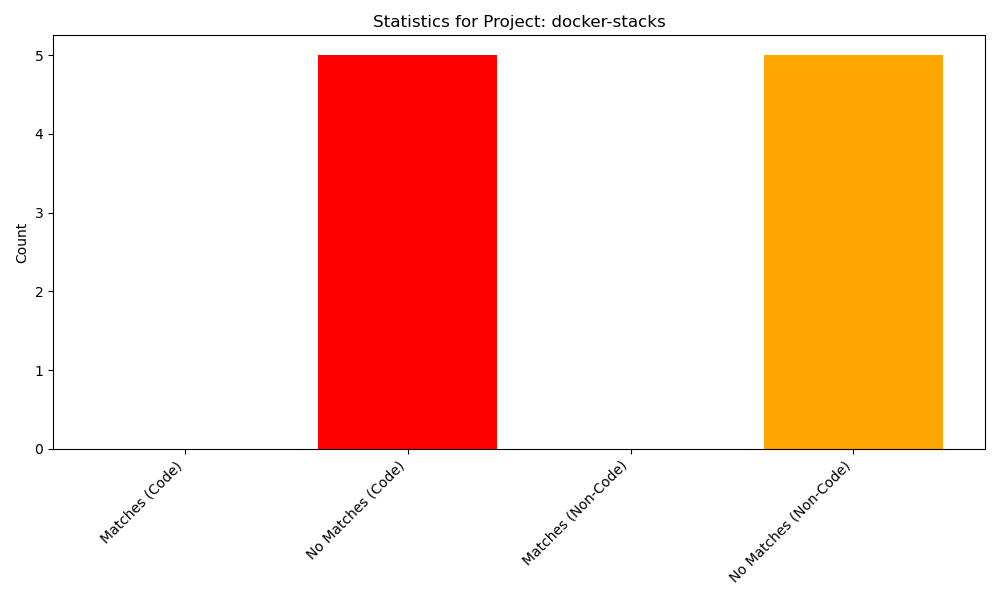
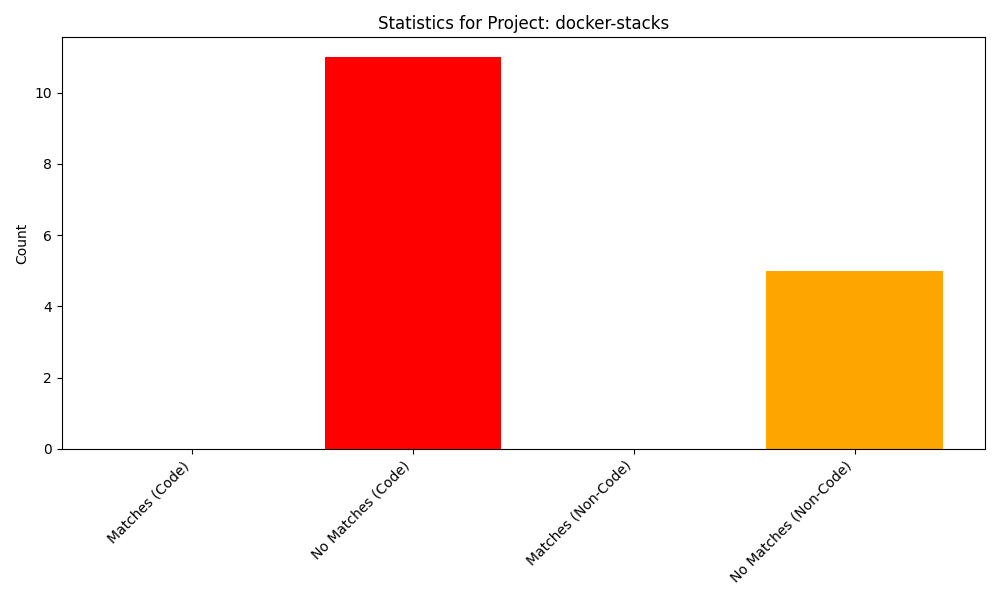
lab3 working

diff --git a/Lab3/cs202_miner/matching_diff_analysis.py b/Lab3/cs202_miner/matching_diff_analysis.py
@@ -6,7 +6,7 @@ import sys
 project_name = sys.argv[1]
 
 # Define the file path dynamically
-file_path = f'C:/Users/bhanu/OneDrive/Desktop/courses/STT_Lab/Lab3/cs202_miner/results/{project_name}/diff_analysis.csv'
+file_path = f'./results/{project_name}/diff_analysis.csv'
 
 # Check if the file exists before proceeding
 if os.path.exists(file_path):
@@ -14,7 +14,7 @@ if os.path.exists(file_path):
     df['Matches'] = df.apply(lambda row: 'Yes' if row['diff_myers'] == row['diff_hist'] else 'No', axis=1)
 
     # Save the modified dataframe to a new CSV file
-    output_path = f'C:/Users/bhanu/OneDrive/Desktop/courses/STT_Lab/Lab3/cs202_miner/results/{project_name}/matching_diff_analysis.csv'
+    output_path = f'./results/{project_name}/matching_diff_analysis.csv'
     df.to_csv(output_path, index=False)
     
     print("File processed successfully.")

diff --git a/Lab3/cs202_miner/plots.py b/Lab3/cs202_miner/plots.py
@@ -5,7 +5,7 @@ import matplotlib.pyplot as plt
 
 # Define the project name and path to the CSV file
 project_name = sys.argv[1]  # Change this as needed
-csv_path = f'C:/Users/bhanu/OneDrive/Desktop/courses/STT_Lab/Lab3/cs202_miner/results/{project_name}/matching_diff_analysis.csv'
+csv_path = f'./results/{project_name}/matching_diff_analysis.csv'
 
 # Check if the file exists
 if not os.path.exists(csv_path):
@@ -54,9 +54,9 @@ plt.xticks(rotation=45, ha='right')
 plt.tight_layout()
 
 # Save the plot
-output_plot_path = f'C:/Users/bhanu/OneDrive/Desktop/courses/STT_Lab/Lab3/cs202_miner/results/{project_name}/artifact_statistics.png'
+output_plot_path = f'./results/{project_name}/artifact_statistics.png'
 plt.savefig(output_plot_path)
 print(f"Plot saved to Results dir")
 
 # Show the plot
-plt.show()
+# plt.show()

diff --git a/Lab3/cs202_miner/diff_analysis.py b/Lab3/cs202_miner/diff_analysis.py
@@ -10,7 +10,7 @@ columns = ['old_file_path', 'new_file_path', 'commit_sha', 'parent_sha', 'commit
 
 rows = []
 count=0
-last_n=10
+last_n=15
 
 commits = []
 for x in Repository(sys.argv[1],only_no_merge=True,order='reverse').traverse_commits():
